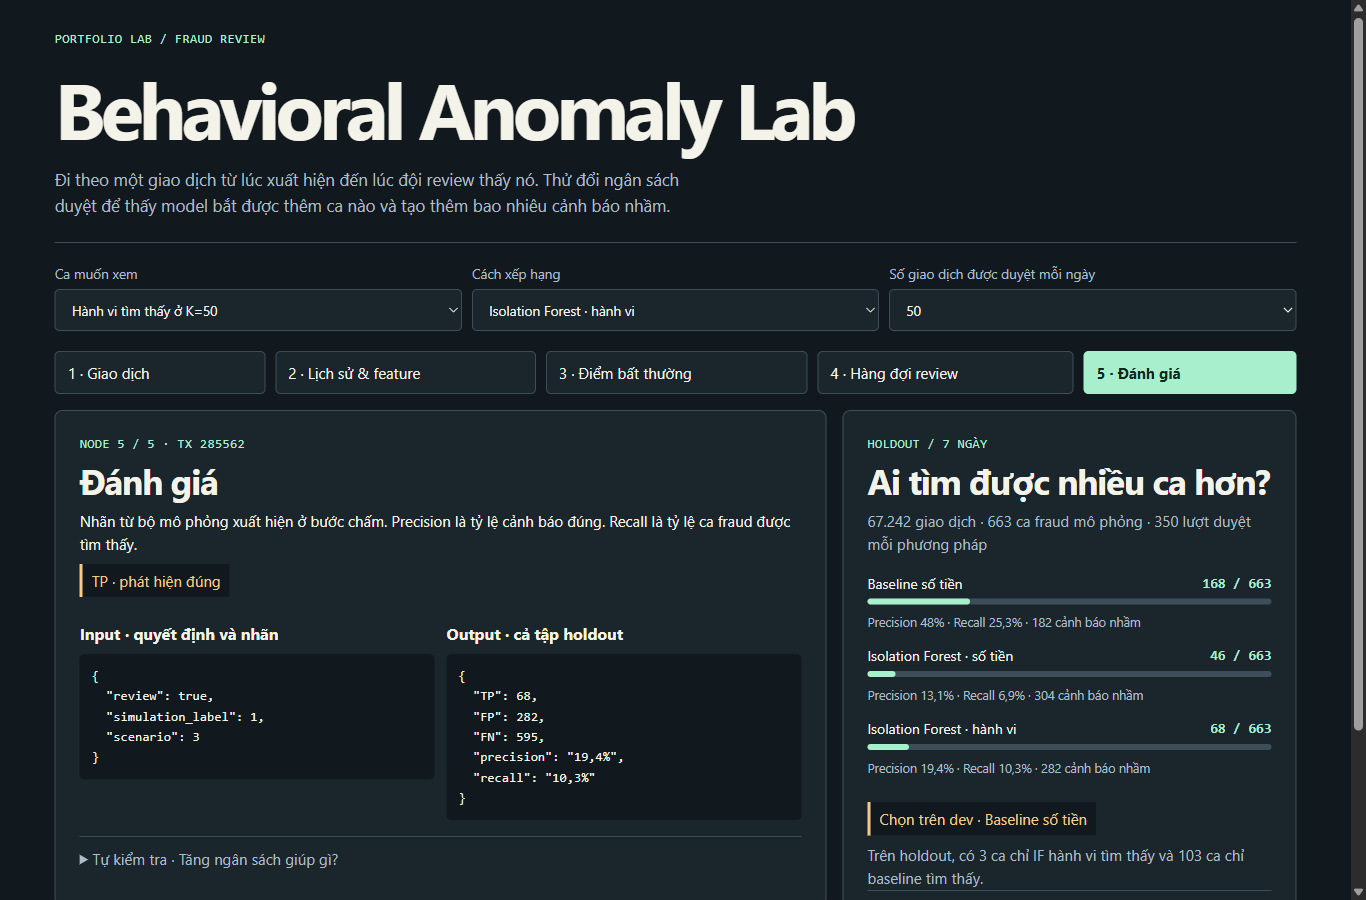
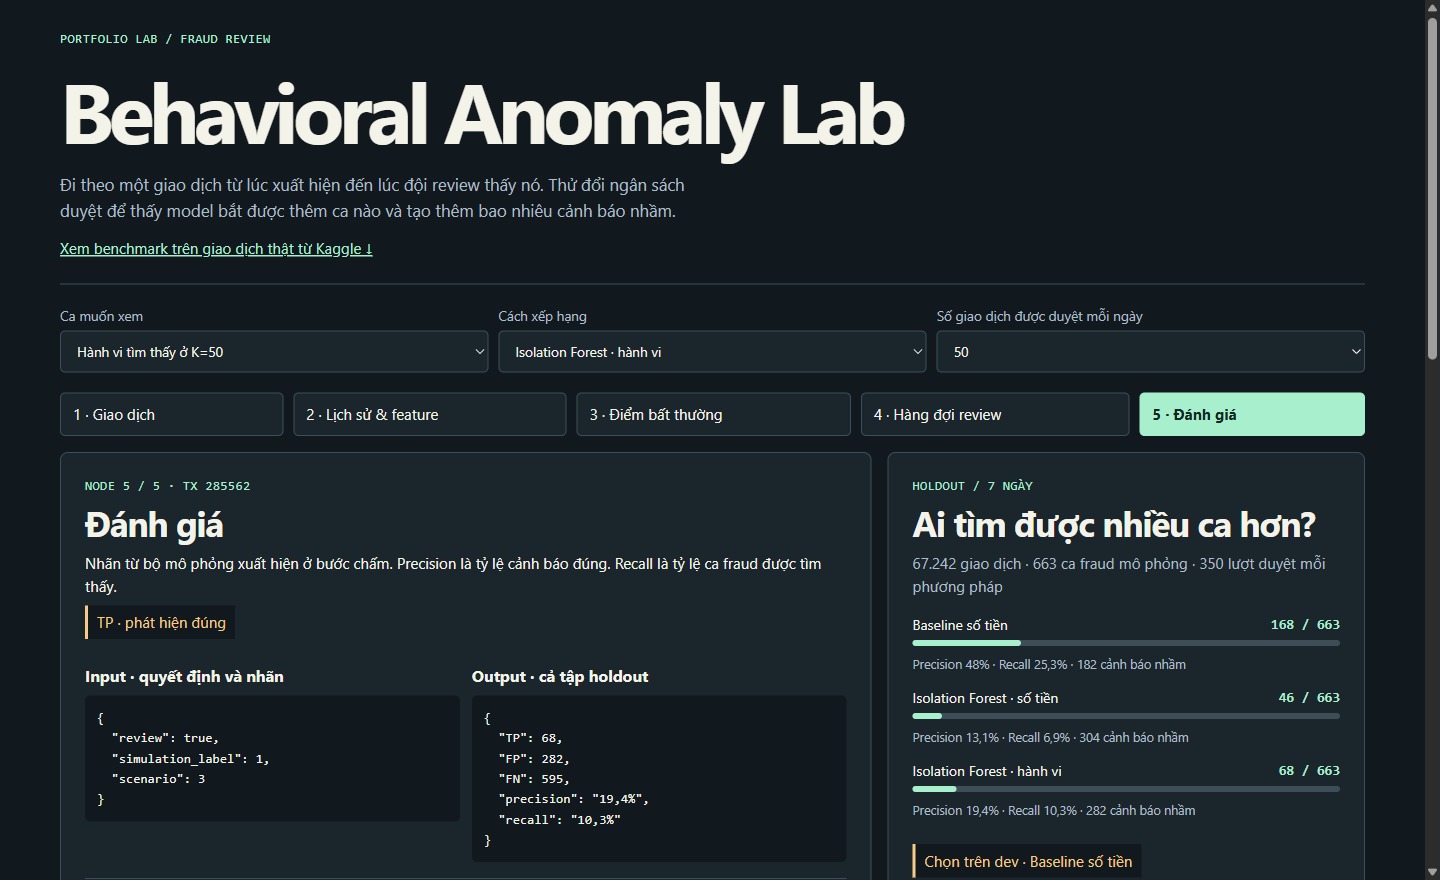
Add one-click Windows demo and refresh screenshots

diff --git a/README.md b/README.md
@@ -4,7 +4,9 @@
 
 I compared three scoring methods on **284,807 real, anonymized card transactions** from ULB and Worldline. In the held-out arrival replay, **logistic regression caught 69 of 115 frauds using 87 of 100 available reviews**. Isolation Forest caught zero using all 100 slots. [Kaggle dataset](https://www.kaggle.com/datasets/mlg-ulb/creditcardfraud) · [Measured report](kaggle-report.json)
 
-[Download the interactive demo](https://raw.githubusercontent.com/Boothill2001/behavioral-anomaly-lab/main/index.html) and open the HTML file in a browser. Jump to the Kaggle comparison to inspect the results below. The five-step walkthrough uses a separate simulator with account history.
+**Windows quick start.** Double-click `start.bat` to open the demo. The app runs offline and requires no Python installation. You can also [download the interactive HTML](https://raw.githubusercontent.com/Boothill2001/behavioral-anomaly-lab/main/index.html) and open it directly.
+
+![The Kaggle experiment shows how the same models perform under a batch queue and an arrival-order queue.](kaggle-benchmark.png)
 
 ## One transaction explains the tradeoff
 
@@ -27,13 +29,6 @@ The amount baseline ranks by payment size. Isolation Forest learns an anomaly sc
 | **Class-weighted logistic regression** | **69/96** | **71/115** | **69/115** | **18** |
 
 Logistic regression earned the highest development catch count at the fixed budget. Its holdout result supports carrying it forward when training labels are available. Isolation Forest's drop from 39 catches to zero motivates investigation. The demo shows score and feature distribution shifts, queue overflow, and confirmed catches by six-hour window. Two days of data cannot establish the cause of that drop or estimate production losses avoided.
-
-<details>
-<summary>See the two queues and their monitoring on the same screen</summary>
-
-![The Kaggle benchmark shows retrospective and arrival-order results, a missed transaction, and diagnostics by six-hour window.](kaggle-benchmark.png)
-
-</details>
 
 ## Follow account behavior through the pipeline
 
